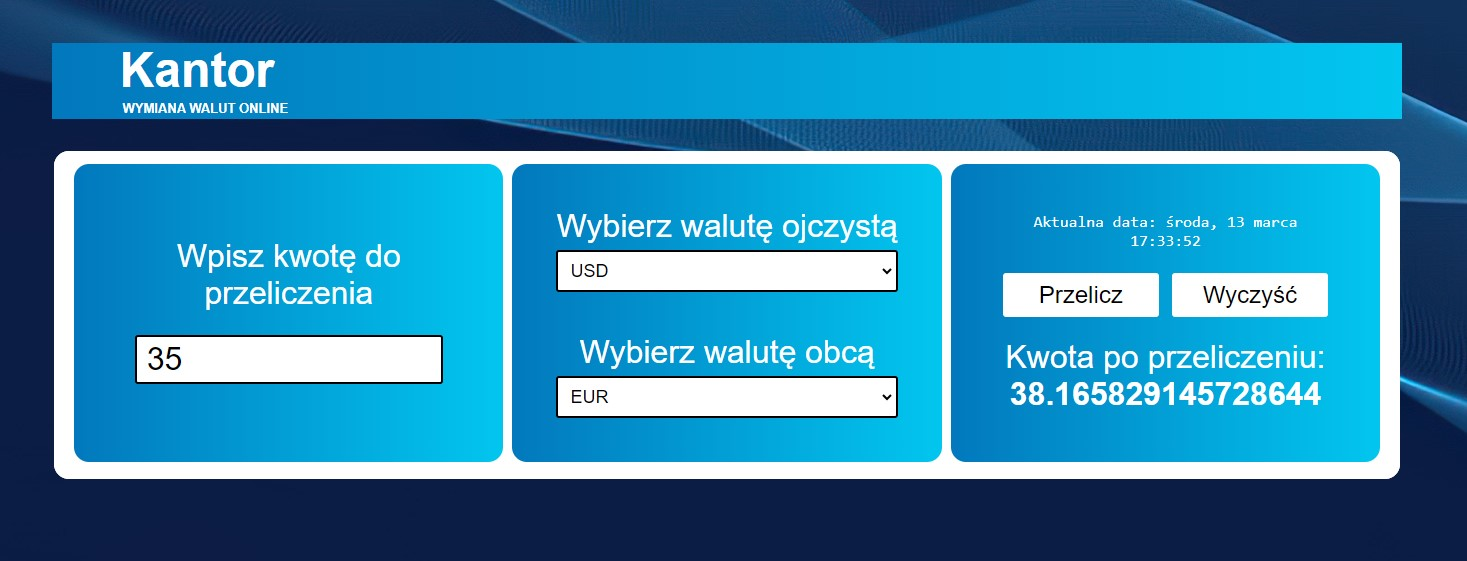
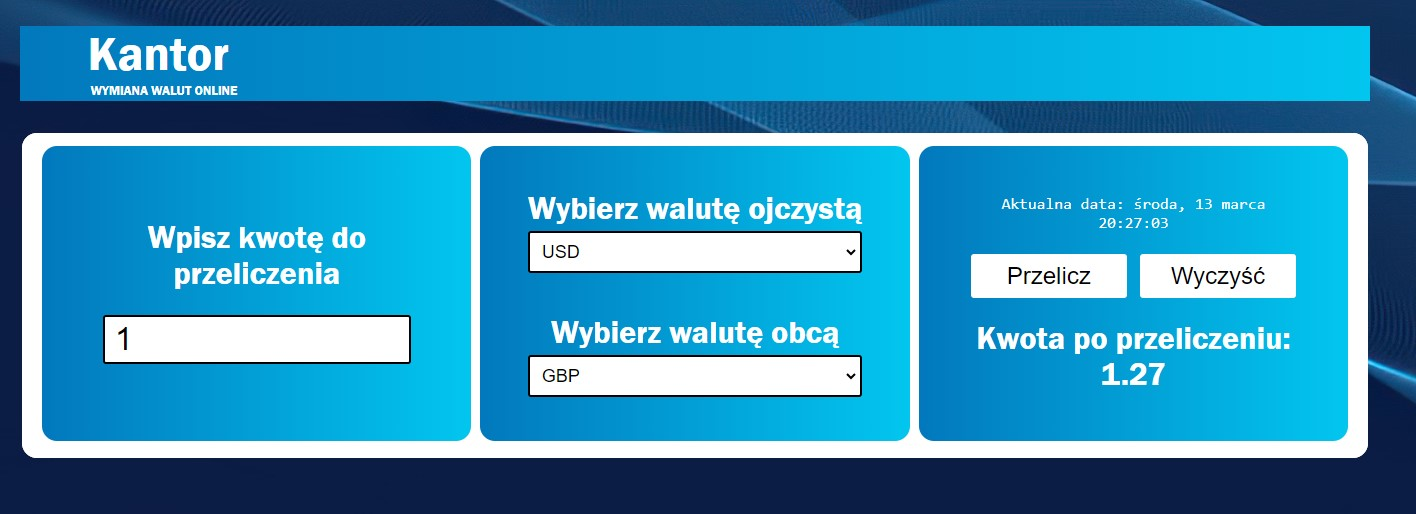
new update

Changed region(s): [[0.0, 0.0, 1.0, 0.9027], [0.0932, 0.4358, 0.2797, 0.5603]]

diff --git a/src/Form/index.js b/src/Form/index.js
@@ -4,55 +4,93 @@ import Clock from "./Clock";
 import Fieldset from "./Fieldset";
 import Buttons from "./Buttons";
 import Label from "./Label";
-import { StyledForm, Header, HeaderDiv, Section } from "./styled";
+import { StyledForm, Section, Header, HeaderDiv, Feilure, Loading } from "./styled";
+import React, { useState } from 'react';
 
-const Form = ({ onFormSubmit, amount, setAmount, handleNationalSelect, handleForeignSelect, calculateResult, result }) => (
+import { useRatesData } from './useRatesData';
 
-    <StyledForm onSubmit={onFormSubmit}>
+const Form = () => {
 
-        <Header>
-            <h1 >   Kantor<br />
-                <HeaderDiv> WYMIANA WALUT ONLINE
+  const [result, setResult] = useState("");
+  const [amount, setAmount] = useState("");
+  const ratesData = useRatesData();
 
-                </HeaderDiv>
-            </h1>
-        </Header>
+  const calculateResult = (amount, currency) => {
+    const rate = ratesData.currencies[currency];
 
-        <Fieldset>
+    setResult({
+      sourceAmount: +amount,
+      targetAmount: amount * rate,
+      currency,
+    }).toFixed(2);
+  };
 
-            <Section>
-                <Label
+  const onFormSubmit = (event) => {
+    event.preventDefault();
+    calculateResult(amount);
+  };
+
+  return (
+    <div>
+      <Header>
+        <h1 > Kantor <br />
+          <HeaderDiv>
+            WYMIANA WALUT ONLINE
+          </HeaderDiv>
+        </h1>
+      </Header>
+
+      <StyledForm onSubmit={onFormSubmit}>
+        {ratesData.state === "loading"
+          ? (
+            <Loading>
+              Sekunda... <br />Ładuję kursy walut z Europejskiego Banku Centralnego
+            </Loading>
+          )
+          :
+          ratesData.state === "error" ? (
+            <Feilure>
+              Hmm... Coś poszło nie tak. Sprawdź, czy masz połączenie internetowe
+            </Feilure>
+          )
+            : (
+
+
+              <Fieldset>
+
+                <Section>
+                  <Label
                     amount={amount}
                     setAmount={setAmount}
-                />
+                  />
+                </Section>
 
-            </Section>
+                <Section>
+                  Wybierz walutę ojczystą<br />
+                  <Select />
+                  <br />
+                  Wybierz walutę obcą
+                  <br />
+                  <Select />
+                </Section>
 
-            <Section>
-                Wybierz walutę ojczystą<br />
-                <Select
-                    setCurrency={handleForeignSelect}
-                />
-                <br />
-                Wybierz walutę obcą
-                <br />
-                <Select
-                    setCurrency={handleNationalSelect}
-                />
-            </Section>
-
-            <Section>
-                <Clock />
-                <Buttons
+                <Section>
+                  <Clock />
+                  <Buttons
                     amount={amount}
                     setAmount={setAmount}
                     calculateResult={calculateResult}
-                />
-                <Result result={result} />
-            </Section>
+                  />
+                  <Result result={result} />
+                </Section>
 
-        </Fieldset>
-    </StyledForm>
+              </Fieldset>
+            )
+        }
+      </StyledForm>
 
-);
+    </div>
+
+  );
+};
 export default Form;

diff --git a/src/App.js b/src/App.js
@@ -1,75 +1,9 @@
-import React, { useState } from 'react';
 import Form from './Form';
 
 function App() {
 
-   const currencies = [
-      {
-         code: "PLN",
-         name: "Polski złoty",
-         rate: 1
-      },
-      {
-         code: "EUR",
-         name: "Euro",
-         rate: 4.34
-      },
-      {
-         code: "USD",
-         name: "Dolar amerykański",
-         rate: 3.98
-      },
-      {
-         code: "GBP",
-         name: "Funt brytyjski",
-         rate: 5.04
-      },
-      {
-         code: "CHF",
-         name: "Frank szwajcarski",
-         rate: 4.67
-      },
-   ];
-
-   const [result, setResult] = useState("");
-   const [amount, setAmount] = useState("");
-   const [selectedNational, setSelectedNational] = useState(currencies[0].rate);
-   const [selectedForeign, setSelectedForeign] = useState(currencies[0].rate);
-
-   const handleNationalSelect = (currency) => {
-      const selectedNational = currencies.find(({ code }) => code === currency)?.rate; //for some reason doesn`t work without "?"
-      setSelectedNational(selectedNational);
-   };
-
-   const handleForeignSelect = (currency) => {
-      const selectedForeign = currencies.find(({ code }) => code === currency)?.rate;
-      setSelectedForeign(selectedForeign);
-   };
-
-   const calculateResult = (amount, selectedNational, selectedForeign) => {
-
-      setResult(amount * (selectedNational / selectedForeign));
-      console.log({ result });
-   };
-
-   const onFormSubmit = (event) => {
-      event.preventDefault();
-      calculateResult(amount, selectedNational, selectedForeign);
-   };
-
    return (
-      <div>
-         <Form
-            onFormSubmit={onFormSubmit}
-            amount={amount}
-            setAmount={setAmount}
-            handleNationalSelect={handleNationalSelect}
-            handleForeignSelect={handleForeignSelect}
-            calculateResult={calculateResult}
-            result={result}
-         />
-      </div >
-
+      <Form />
    );
 }
 

diff --git a/src/Form/styled.js b/src/Form/styled.js
@@ -3,28 +3,12 @@ import styled from "styled-components";
 export const StyledForm = styled.form`
     text-align: center;
     padding: 5%;
-`;
-
-export const Header = styled.h1`
-
-    padding-left: 5%;
-    text-align: left;
-    color: ${({ theme }) => theme.color.white};
-    background: ${({ theme }) => theme.color.lochmara};
-    background: linear-gradient(90deg, rgba(2,120,189,1) 0%, rgba(2,198,239,1) 100%);
-    font-size: x-large;
-    width: all;
-
-`;
-
-export const HeaderDiv = styled.div`
-    font-size: small;
-    padding: 3px;
+    margin-top: -2%;
 `;
 
 export const Section = styled.section`
     background: ${({ theme }) => theme.color.lochmara};
-    background: linear-gradient(90deg, rgba(2,120,189,1) 0%, rgba(2,198,239,1) 100%);
+    background: linear-gradient(135deg, rgba(2,120,189,1) 0%, rgba(2,198,239,1) 100%);
     font-size: xx-large;
     color: white;
     margin: 1%;
@@ -34,6 +18,29 @@ export const Section = styled.section`
     align-items: center;
     justify-content: center;
     padding: 10%;
-    row-gap: 5px;
-    
+    row-gap: 5px;  
 `;
+
+export const Header = styled.div`
+
+    padding-left: 5%;
+    text-align: left;
+    color: ${({ theme }) => theme.color.white};
+    background: ${({ theme }) => theme.color.lochmara};
+    background: linear-gradient(90deg, rgba(2,120,189,1) 0%, rgba(2,198,239,1) 100%);
+    font-size: x-large;
+    margin-bottom: -3% ;
+`;
+
+export const HeaderDiv = styled.div`
+    font-size: small;
+    padding: 3px;
+`;
+
+export const Loading = styled.p`
+    color: ${({ theme }) => theme.color.white};
+`
+export const Feilure = styled.p`
+    margin: 10%;
+    color: ${({ theme }) => theme.color.crimson};
+` 

diff --git a/src/Form/useRatesData.js b/src/Form/useRatesData.js
@@ -1,0 +1,36 @@
+import { useEffect, useState } from "react";
+
+export const useRatesData = () => {
+
+  const [ratesData, setRatesData] = useState({
+    state: "loading",
+  });
+
+  useEffect(() => {
+    const fetchRates = async () => {
+      try {
+        const response = await fetch("https://apiii.currencyapi.com/v3/latest?apikey=cur_live_RnlhxOI7cFnvy5BBJ5nUPg6qwIYZqSL0UJ08aXE7");
+
+        if (!response.ok) {
+          throw new Error(response.statusText);
+        }
+        const { value, code } = await response.json();
+
+        setRatesData({
+          state: "succes",
+          code,
+          value,
+        });
+      }
+
+      catch {
+        setRatesData({
+          state: "error",
+        });
+      }
+    }
+    setTimeout(fetchRates, 1000);
+  }, []);
+
+  return ratesData;
+}

diff --git a/src/Form/Select/index.js b/src/Form/Select/index.js
@@ -1,13 +1,16 @@
-import { StyledSelect} from "./styled";
+import { StyledSelect } from "./styled";
 
-const Select = ({ setCurrency }) => (
+const Select = ({ currency, ratesData }) => (
 
-    <StyledSelect onChange={({ target }) => setCurrency(target.value)}>
-        <option  code="EUR">EUR</option>
-        <option  code="PLN">PLN</option>
-        <option  code="USD">USD</option>
-        <option  code="GBP">GBP</option>
-        <option  code="CHF">CHF</option>
+    <StyledSelect onChange={({ target }) => currency(target.value)}>
+        {Object.keys(ratesData.currencies).map(((currency) => (
+            <option
+                key={currency}
+                value={currency}
+            >
+                {currency}
+            </option>
+        )))}
     </StyledSelect>
 
 );

diff --git a/src/theme.js b/src/theme.js
@@ -1,10 +1,12 @@
 export const theme = {
     color: {
         white: "#ffffff",
-        lochmara: "#0278bd",
-        forestGreen: "#2cba4a",
         silverChalice: "#acaaaa",
+        lochmara: "#0278bd",
+        teal: "#008080",
+        crimson: "#db143c",
         abbey: "#cfc9c9fa",
+        gunPowder: "#42445a",
         black: "#000000",
     }
 };

diff --git a/src/GlobalStyle.js b/src/GlobalStyle.js
@@ -14,12 +14,11 @@ html {
 body {
   display: grid;
   align-self: center;
-  font-family: "Lato", sans-serif;
+  font-family: "Franklin Gothic Medium", sans-serif;
   background-image: url("${background}");
   background-size: cover;
   margin: auto;
   font-size: large;
-  max-width: 1500px;
   color: black;
 }
 

diff --git a/src/Form/Buttons/index.js b/src/Form/Buttons/index.js
@@ -12,5 +12,4 @@ const Buttons = ({ amount, calculateResult, setAmount }) => (
     </ButtonDiv>
 
 );
-
 export default Buttons;

diff --git a/src/Form/Result/index.js b/src/Form/Result/index.js
@@ -1,3 +1,4 @@
+
 const Result = ({ result }) => (
 
     <div>

diff --git a/README.md b/README.md
@@ -16,6 +16,8 @@ This app serves for converting currencies. You may choose between U.S dollar, eu
 - HTML
 - CSS
 - JavaScript
+- grid
+- flex
 - React
 - useEffect
 - BEM convetion
